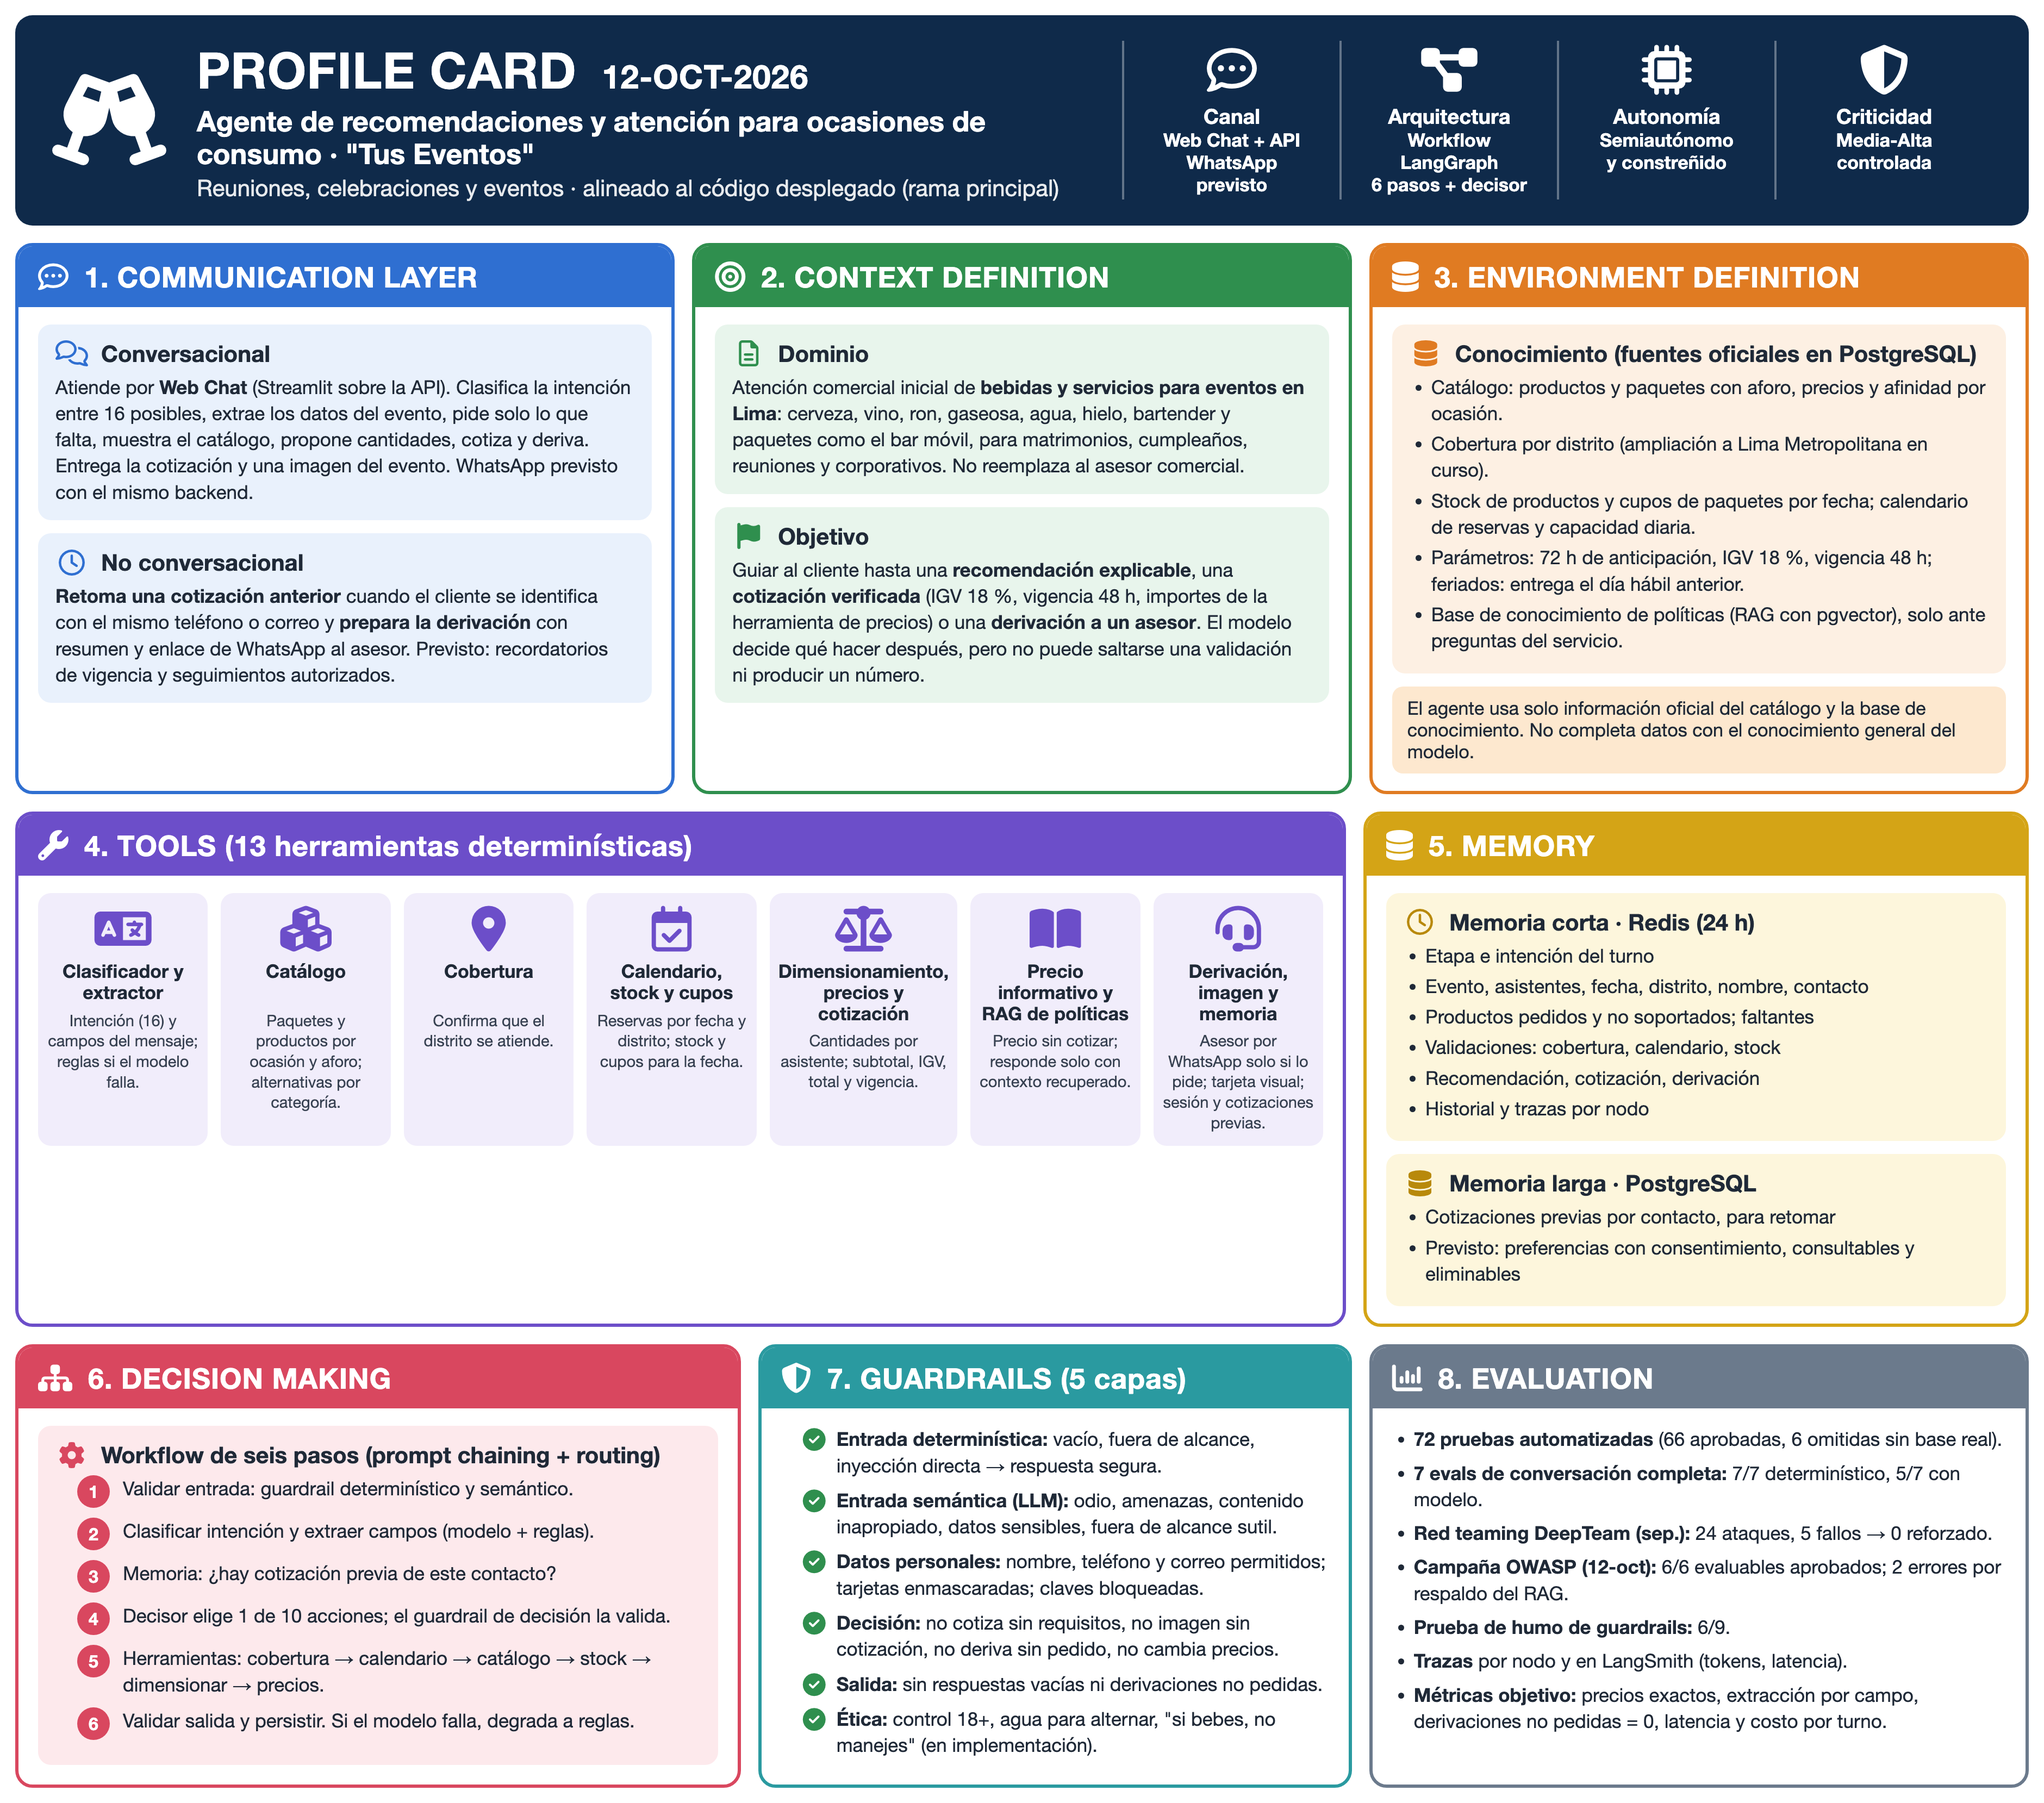
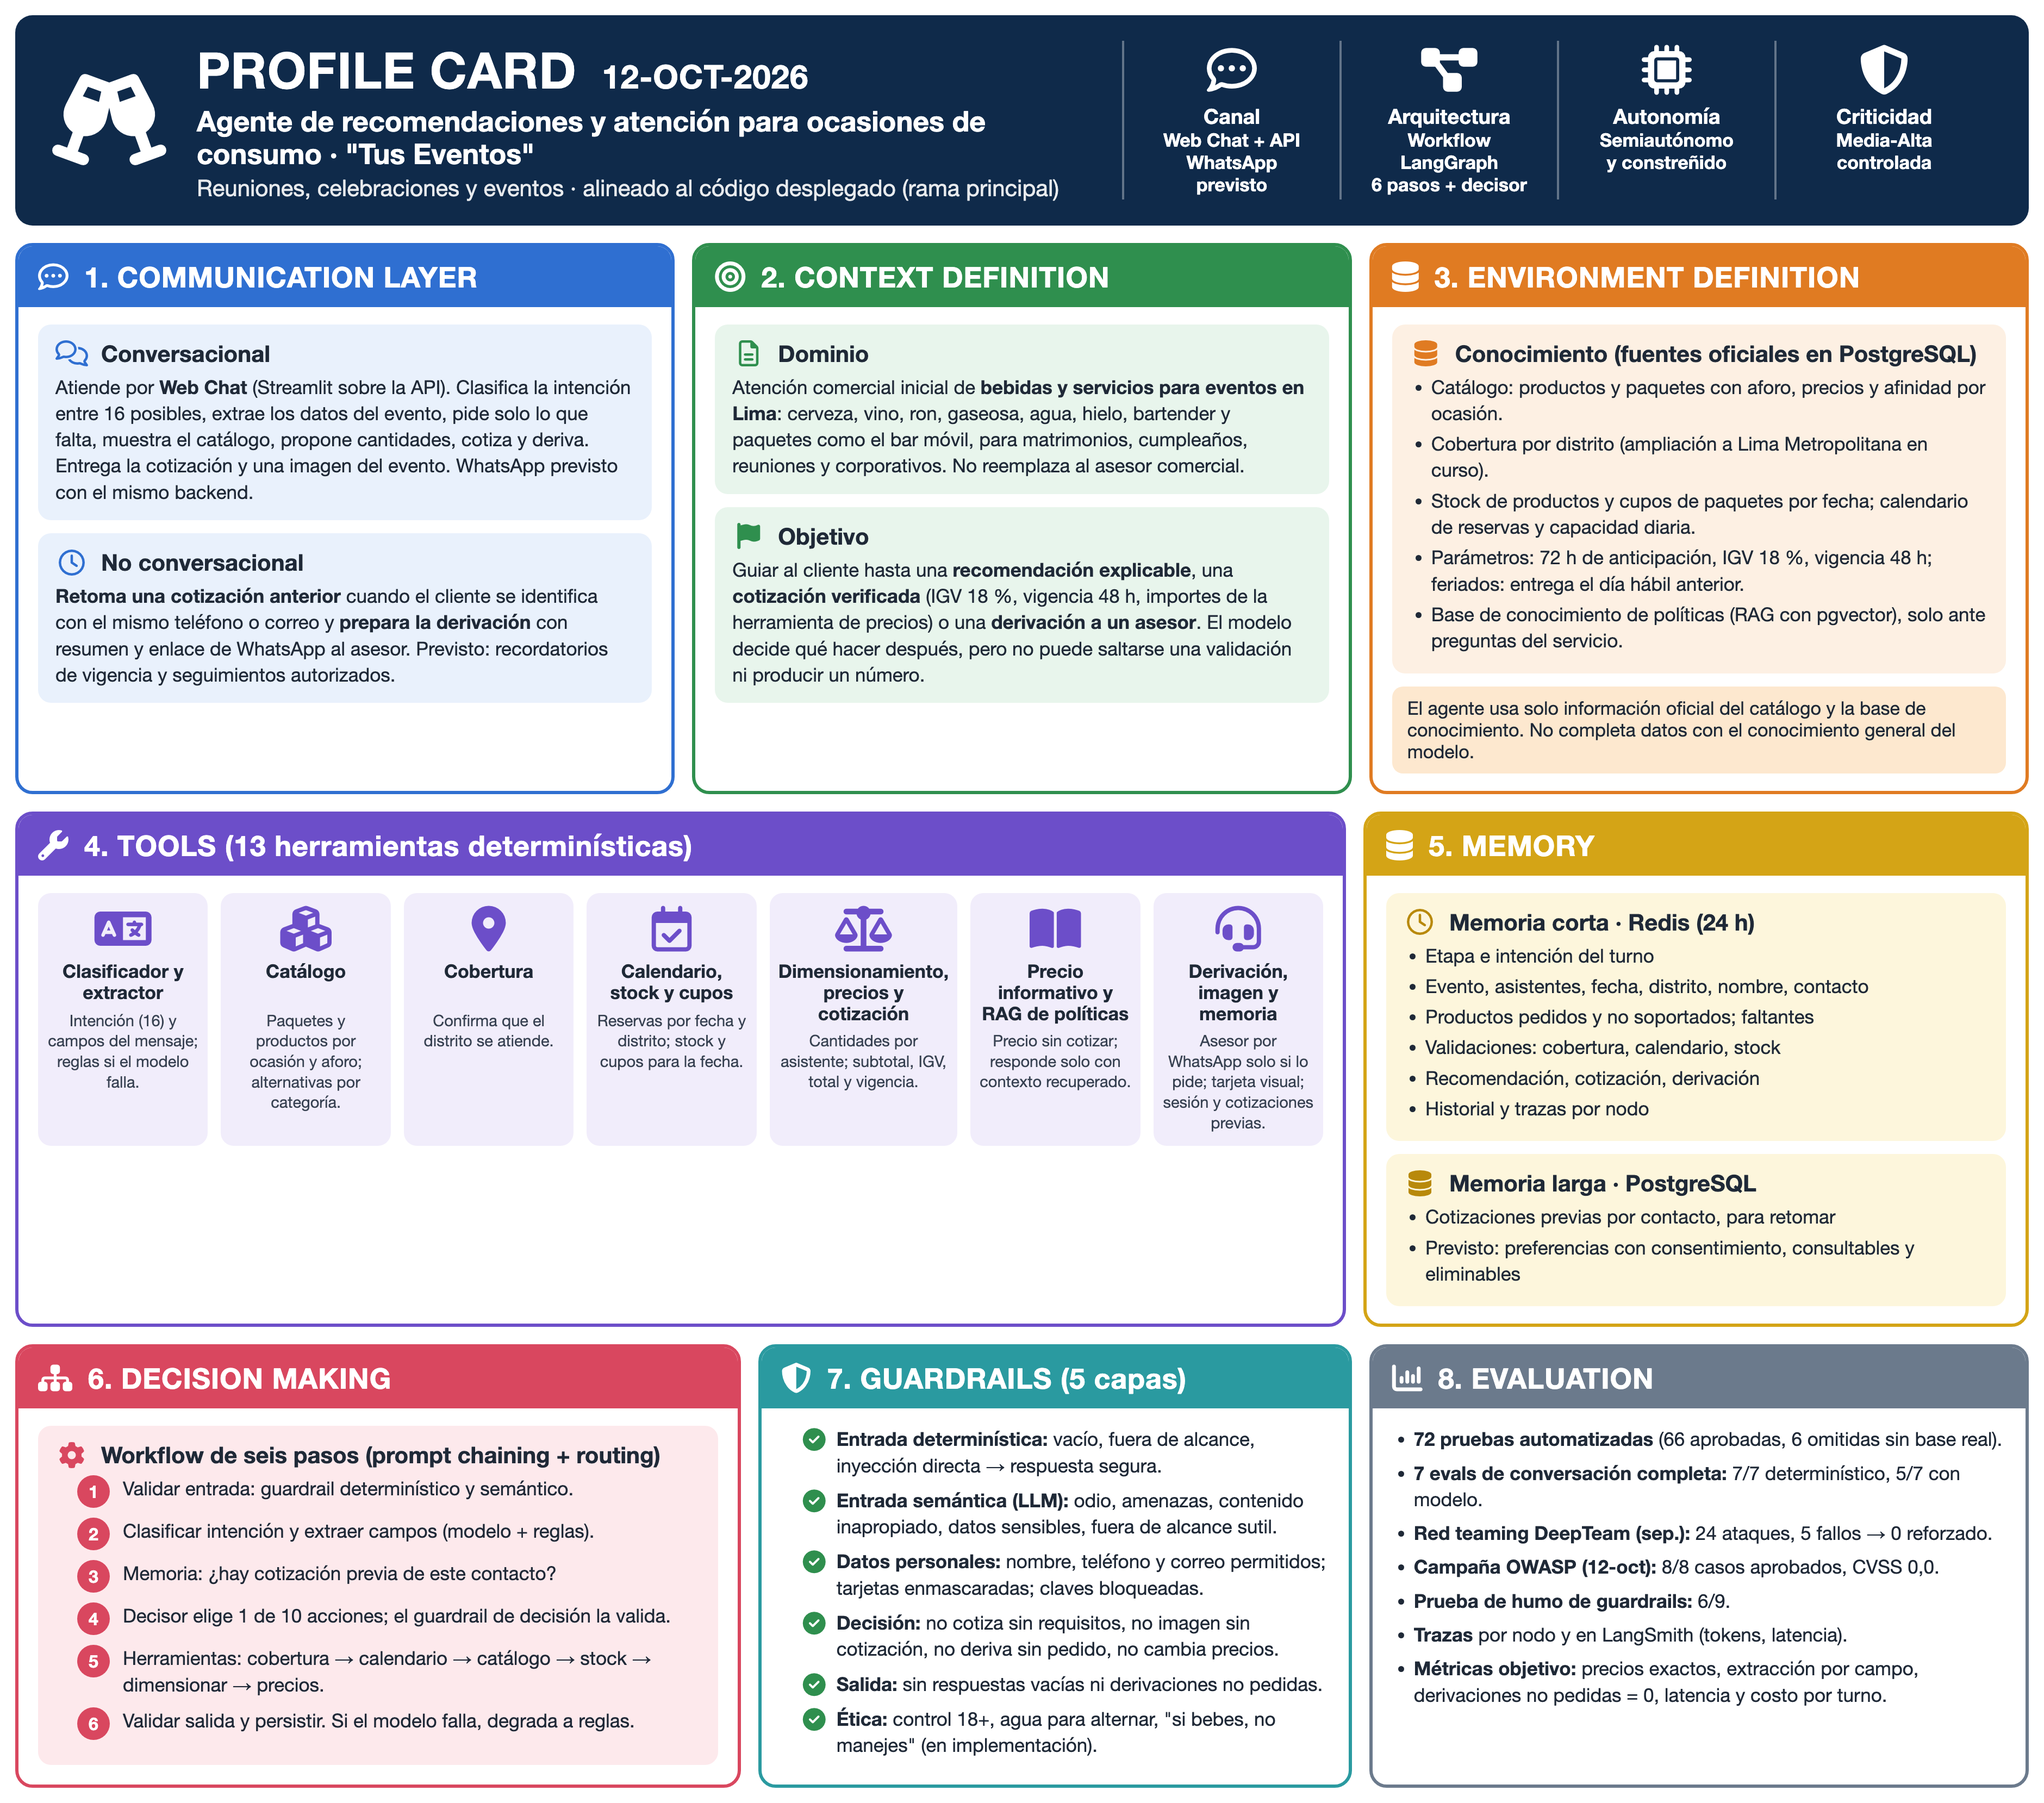
Profile Card 12-oct: campaña OWASP 8/8 (resultado de Jonathan)

Changed region(s): [[0.6846, 0.8695, 0.9335, 0.9626]]

diff --git a/profile-card/card-imagen/profile-card-12oct.html b/profile-card/card-imagen/profile-card-12oct.html
@@ -134,7 +134,7 @@ body{font-family:"Helvetica Neue",Arial,sans-serif;background:#fff;color:#1f2937
       <li><b>72 pruebas automatizadas</b> (66 aprobadas, 6 omitidas sin base real).</li>
       <li><b>7 evals de conversación completa:</b> 7/7 determinístico, 5/7 con modelo.</li>
       <li><b>Red teaming DeepTeam (sep.):</b> 24 ataques, 5 fallos → 0 reforzado.</li>
-      <li><b>Campaña OWASP (12-oct):</b> 6/6 evaluables aprobados; 2 errores por respaldo del RAG.</li>
+      <li><b>Campaña OWASP (12-oct):</b> 8/8 casos aprobados, CVSS 0,0.</li>
       <li><b>Prueba de humo de guardrails:</b> 6/9.</li>
       <li><b>Trazas</b> por nodo y en LangSmith (tokens, latencia).</li>
       <li><b>Métricas objetivo:</b> precios exactos, extracción por campo, derivaciones no pedidas = 0, latencia y costo por turno.</li>

diff --git a/profile-card/grupal/Profile_Card_Agente_Recomendaciones_Ocasiones_Consumo_12OCT.md b/profile-card/grupal/Profile_Card_Agente_Recomendaciones_Ocasiones_Consumo_12OCT.md
@@ -170,7 +170,7 @@ Interviene en una decisión comercial, procesa datos de contacto, registra reser
 
 - **72 pruebas automatizadas** (66 aprobadas, 6 omitidas por requerir PostgreSQL o Redis reales): extracción, datos faltantes, cobertura, fechas, cotización tras recomendación, descuentos sin efecto en precios, stock, calendario, memoria y repositorios.
 - **7 evals de conversación completa** (estado final y respuesta): 7 de 7 en modo determinístico; 5 de 7 con el modelo activo (2 sin terminar por latencia).
-- **Red teaming** con DeepTeam: 24 ataques en septiembre (versión original 5 fallos → versión reforzada 0) y campaña OWASP del 12 de octubre sobre la versión final (6 de 6 escenarios evaluables aprobados, 2 errores por respaldo faltante del RAG); prueba de humo de guardrails 6 de 9.
+- **Red teaming** con DeepTeam: 24 ataques en septiembre (versión original 5 fallos → versión reforzada 0) y campaña OWASP del 12 de octubre sobre la versión final (8 de 8 casos aprobados); prueba de humo de guardrails 6 de 9.
 - **Métricas propuestas para producción:** exactitud de precios y disponibilidad, precisión de extracción por campo, derivaciones no solicitadas = 0, calidad del RAG (faithfulness, context precision), latencia y costo por turno, tiempo a la primera cotización y conversión.
 
 ---
@@ -218,7 +218,7 @@ RECOMENDACIÓN EXPLICABLE · COTIZACIÓN VERIFICADA · DERIVACIÓN A ASESOR
 
 **Guardrails.** Cinco capas: entrada determinística, entrada semántica con LLM, datos personales hacia el modelo, decisión y salida; más controles éticos de edad y consumo responsable.
 
-**Evaluation.** 66 pruebas, 7 evals (7/7 y 5/7), red teaming DeepTeam (24 ataques: 5 → 0) y campaña OWASP (6/6 evaluables), trazas en LangSmith.
+**Evaluation.** 66 pruebas, 7 evals (7/7 y 5/7), red teaming DeepTeam (24 ataques: 5 → 0) y campaña OWASP (8/8), trazas en LangSmith.
 
 **Autonomy.** Semiautónomo y constreñido: recomienda, cotiza y deriva; no negocia, no aprueba descuentos, no confirma pagos ni cierra ventas.
 
